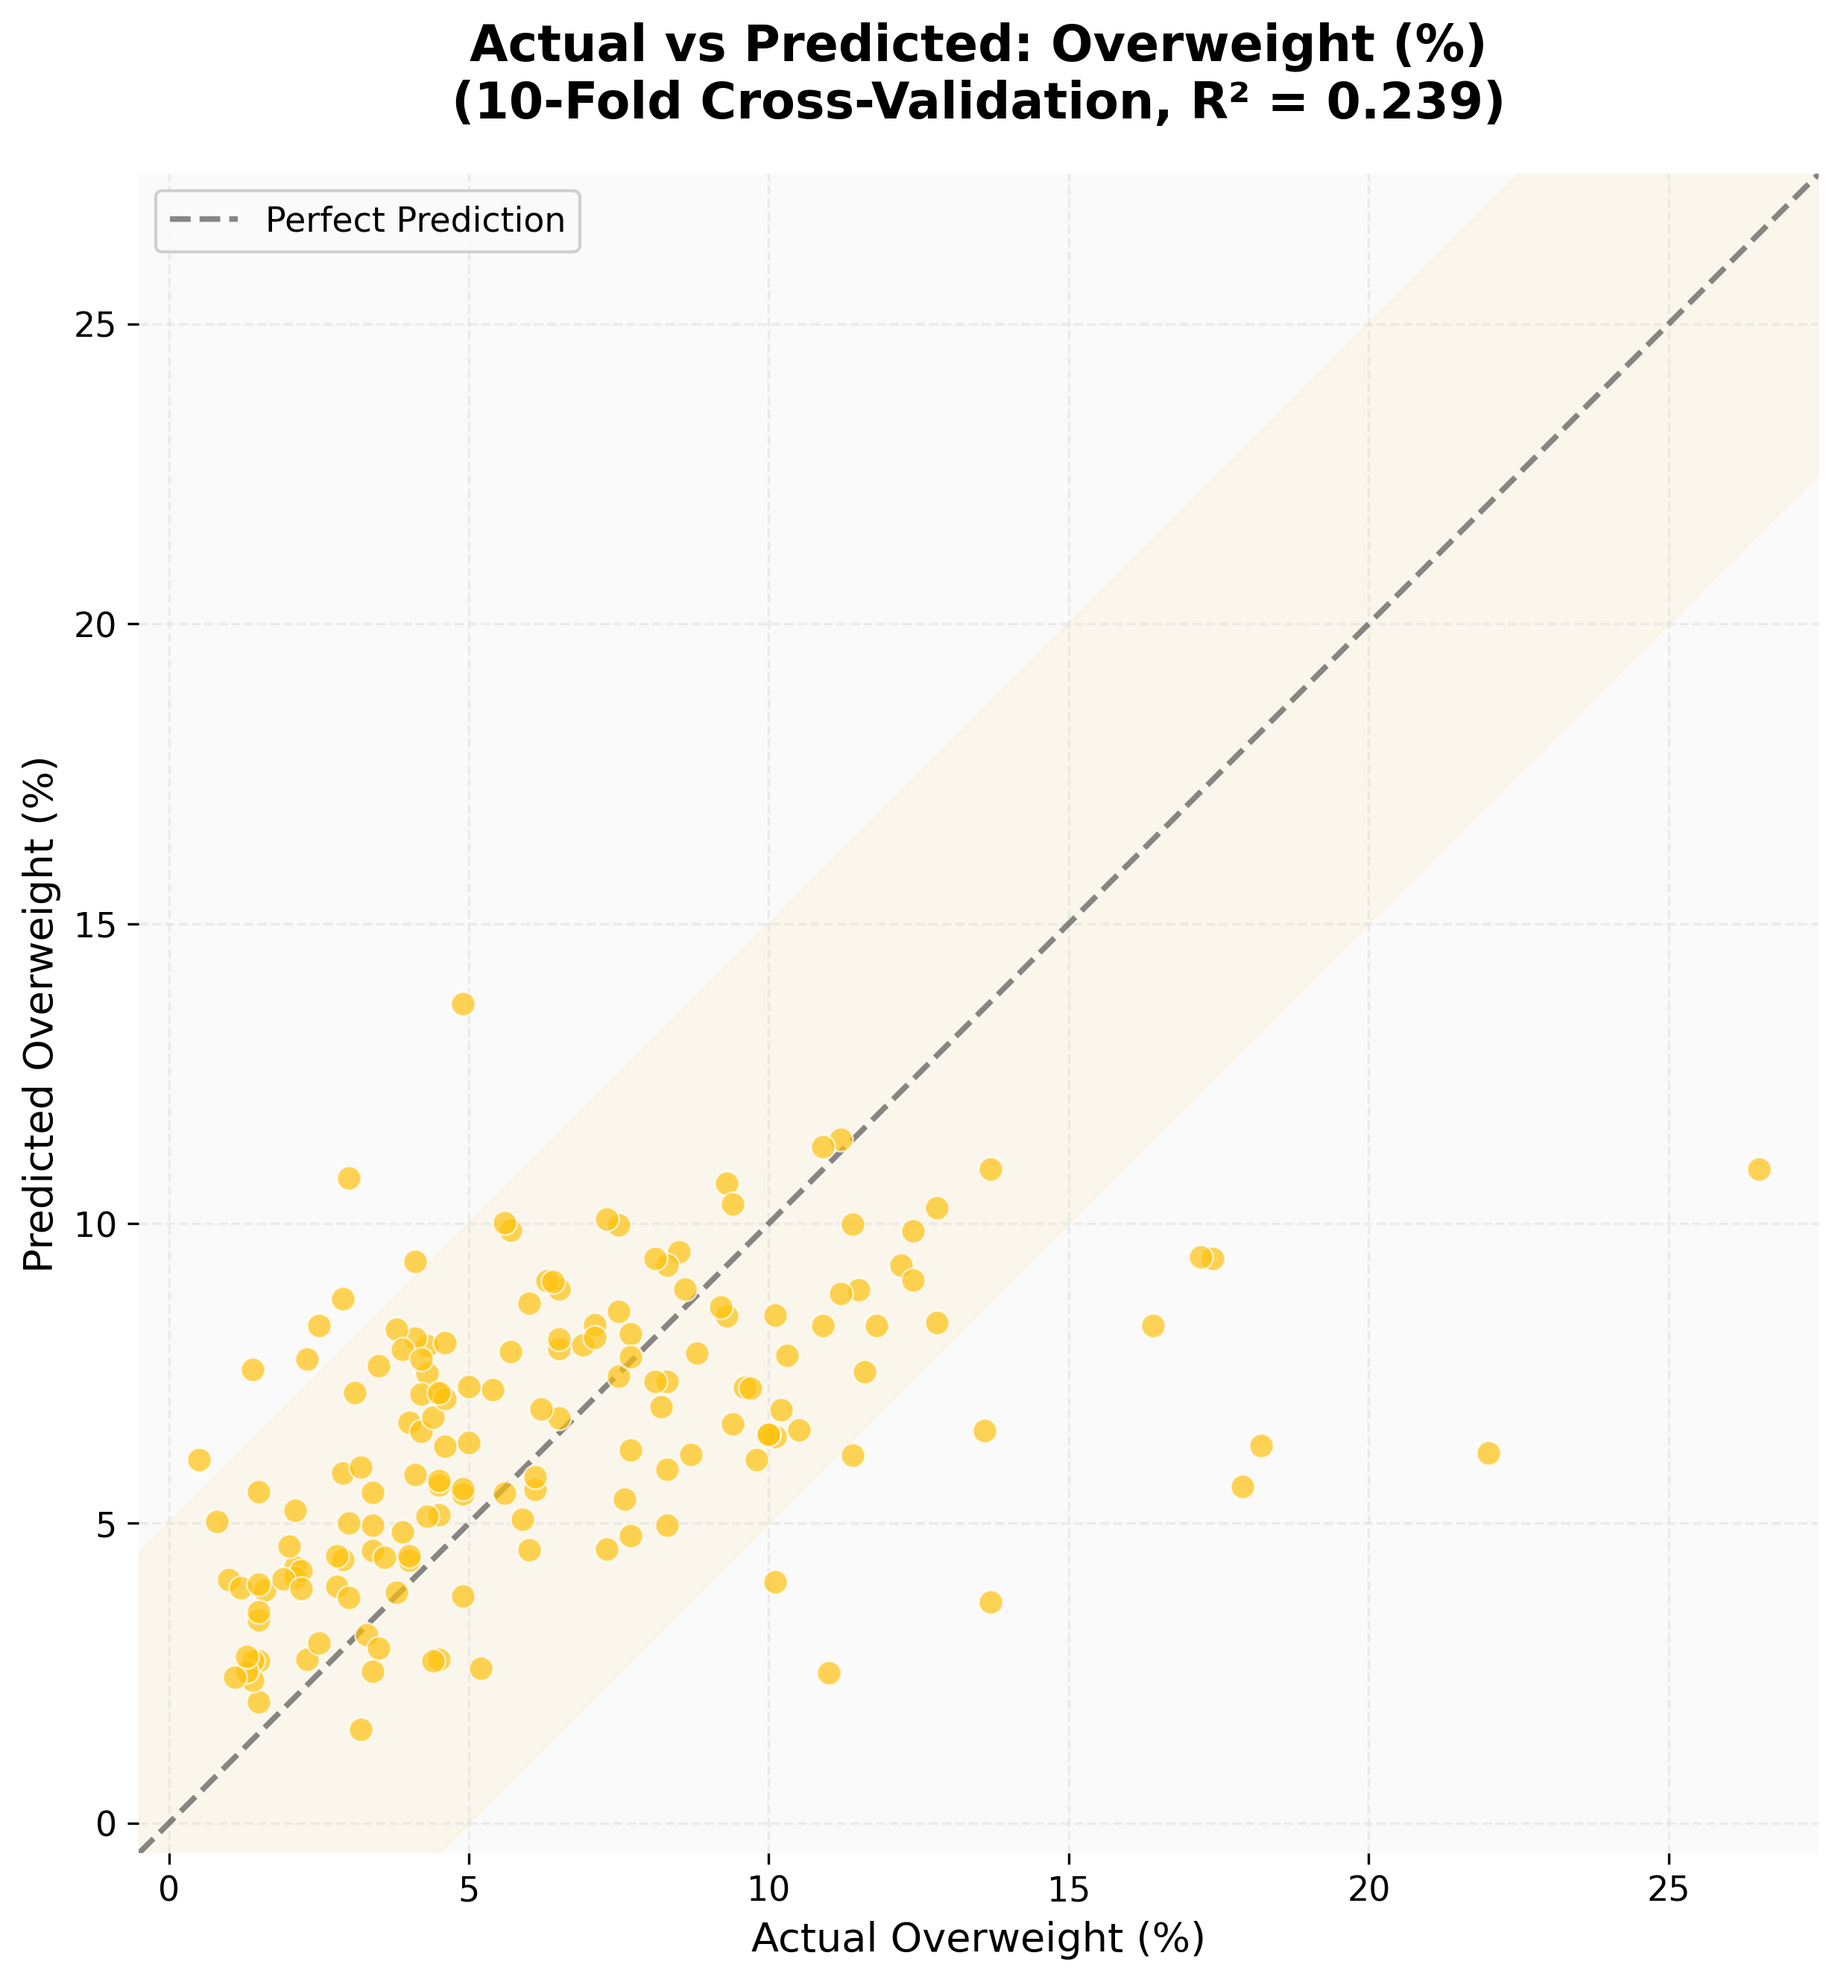
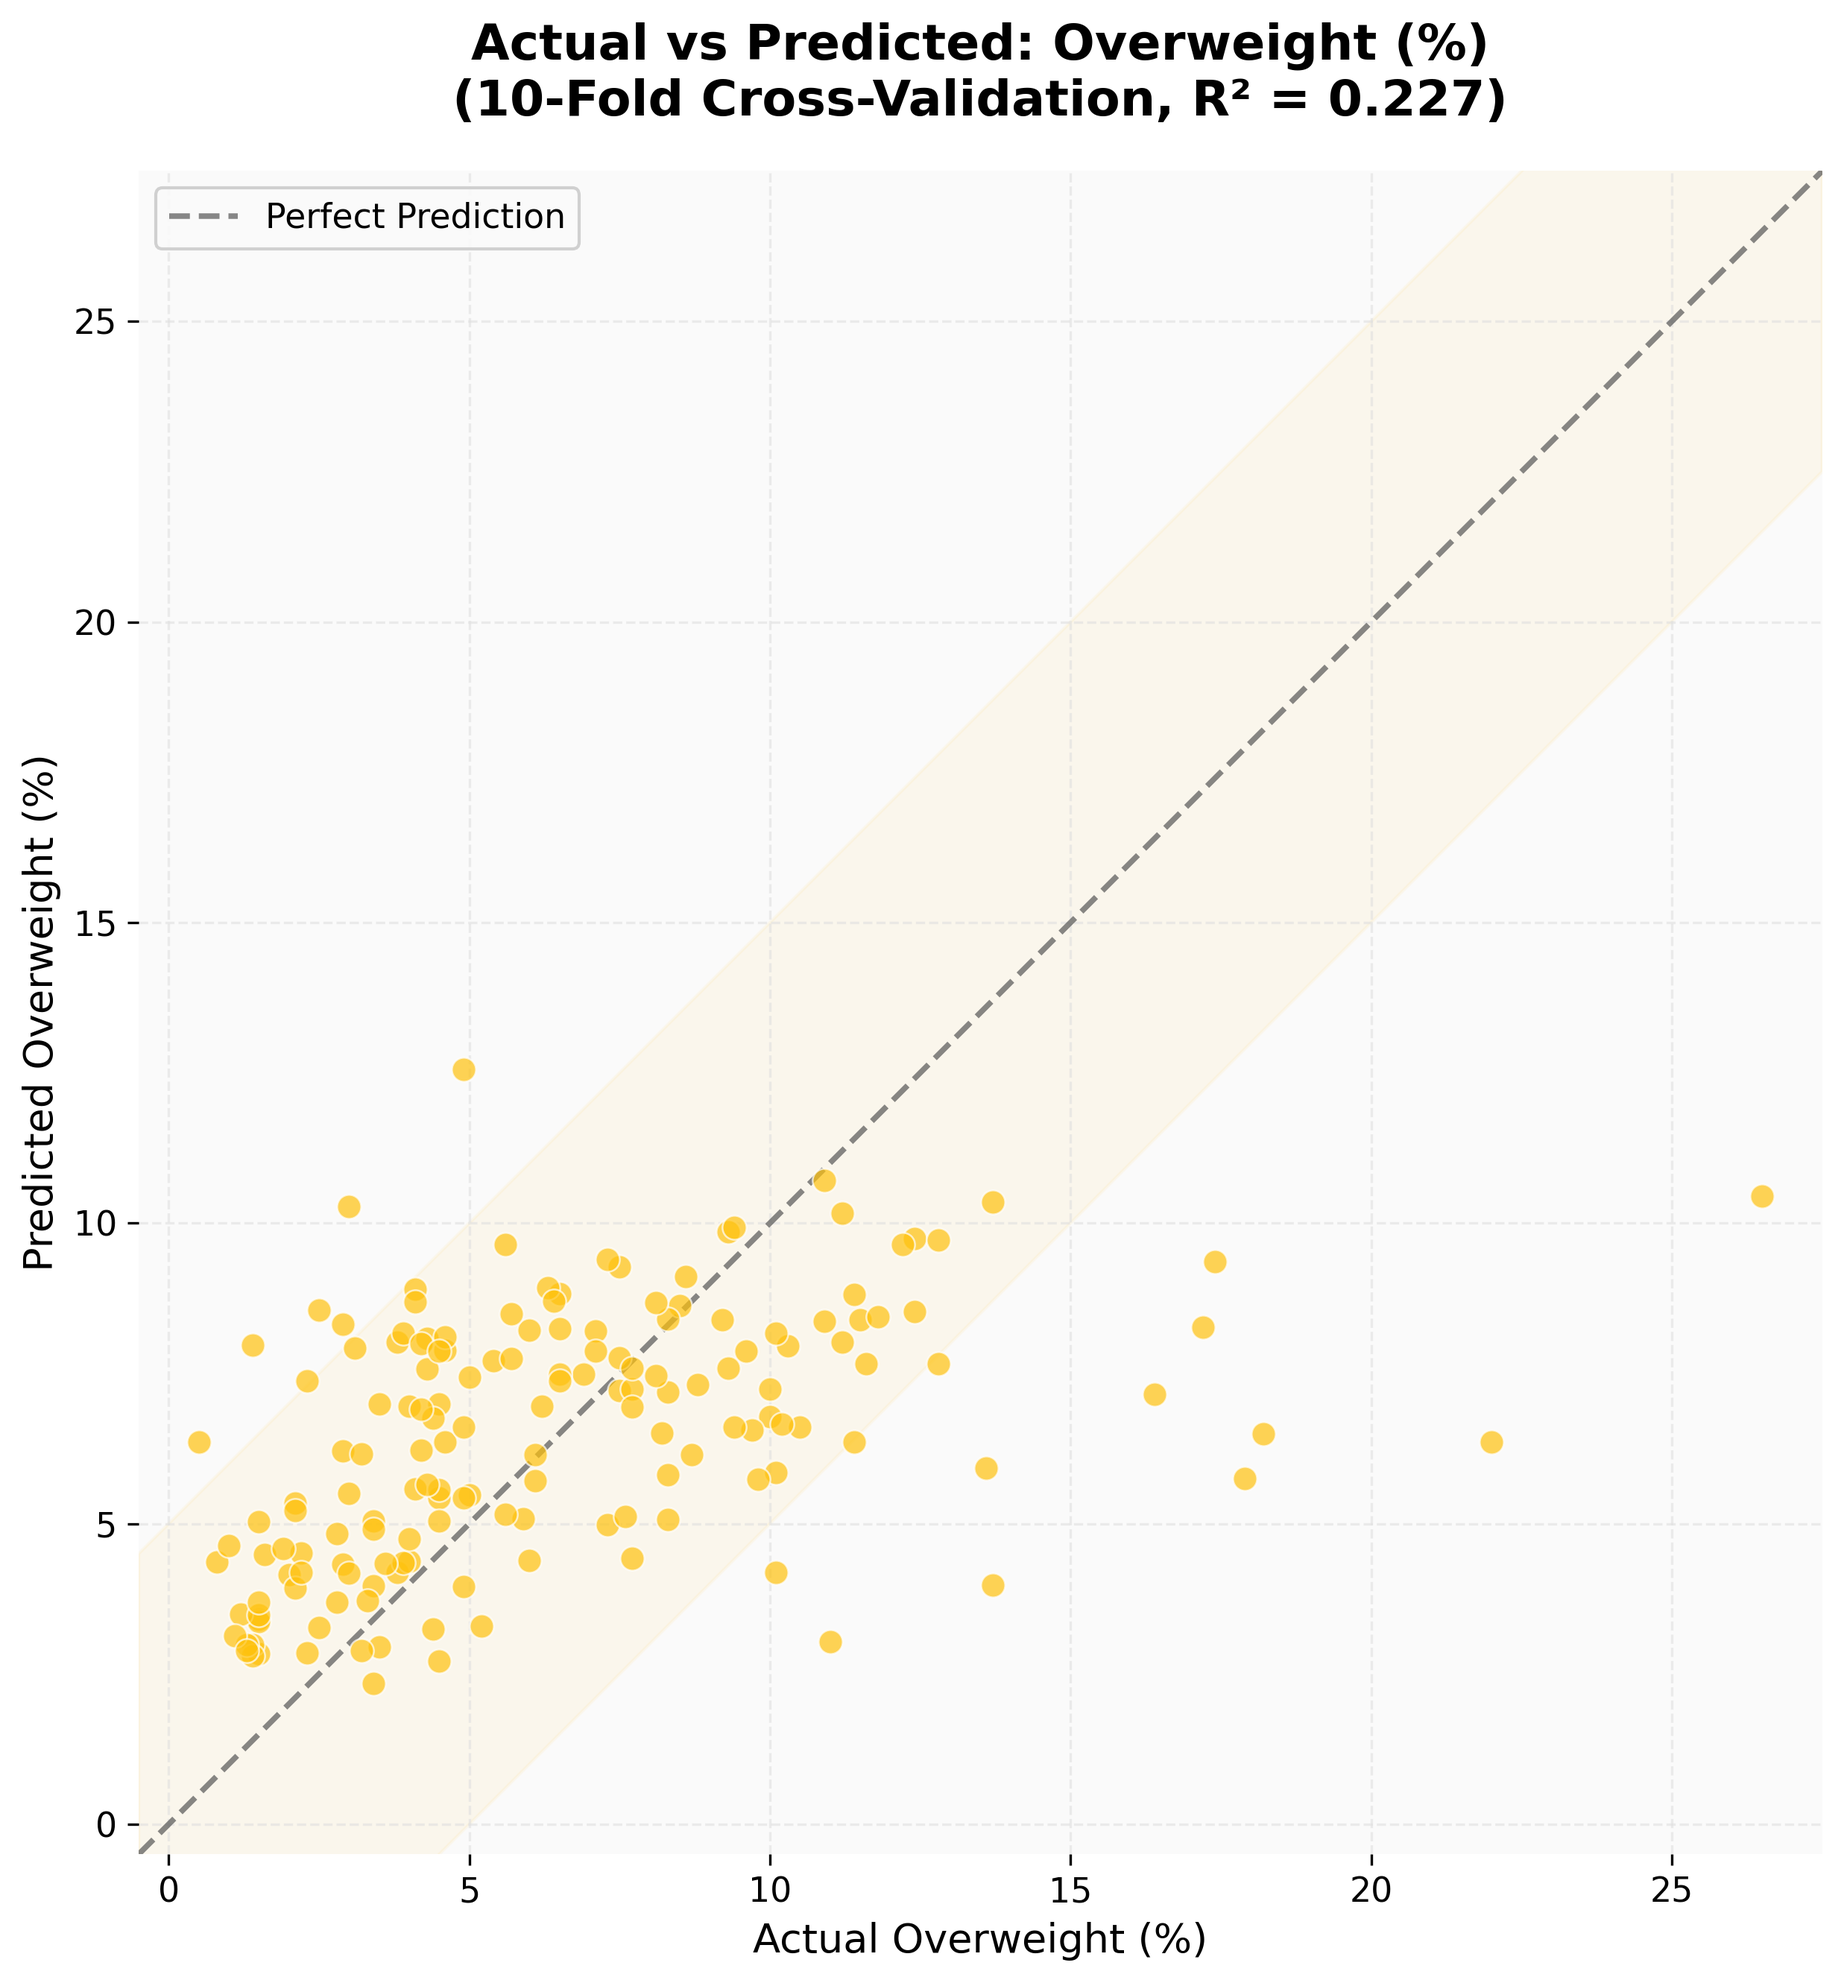
update xgboost model to use immunizaztion coverage

diff --git a/xgboost_cleaning.py b/xgboost_cleaning.py
@@ -6,7 +6,7 @@ import warnings
 warnings.filterwarnings("ignore")
 
 _SCRIPT_DIR = os.path.dirname(os.path.abspath(__file__))
-_ROOT_DIR   = os.path.dirname(_SCRIPT_DIR)
+_ROOT_DIR   = _SCRIPT_DIR
 
 # ====================================================================
 # FUNCTIONS COPIED FROM Malnutrition Datasets/Semi-Final.py
@@ -170,31 +170,40 @@ def get_iso(country_name):
 
 def extract_child_health_db():
     file_path = os.path.join(_ROOT_DIR, "data", "Child-Health-Coverage-Database-November-2025.xlsx")
-    
+
     # We want DIARCARE, PNEUCARE, ITN
     targets = {
         "DIARCARE": "diarrhoea_care_pct",
         "PNEUCARE": "pneumonia_care_pct",
         "ITN": "itn_use_pct"
     }
-    
+
     results = []
-    
+
     for sheet, new_col_name in targets.items():
         df = pd.read_excel(file_path, sheet_name=sheet, header=None)
         df = extract_target_columns(df)
-        
+
         if df.empty:
             continue
-            
+
         # In this specific DB, the 8th column (index 8) is the National Total value
         # The columns are usually: ISO, Country, Region, ProgRegion, Income, Year, Source, SourceLong, Total, Male, Female...
-        target_val_col = df.columns[8] 
-        
+        target_val_col = df.columns[8]
+
         df_clean = clean_data(df, target_val_col)
         df_clean = df_clean.rename(columns={target_val_col: new_col_name})
         results.append(df_clean)
-        
+
+    # Process new coverage data
+    coverage_file = os.path.join(_ROOT_DIR, "data", "coverage.xlsx")
+    if os.path.exists(coverage_file):
+        cov_raw = pd.read_excel(coverage_file)
+        if 'iso3' in cov_raw.columns and 2024 in cov_raw.columns:
+            cov = cov_raw[['iso3', 2024]].rename(columns={'iso3': 'ISO', 2024: 'bcg_coverage'})
+            cov['CountryName'] = cov['ISO'] # Just a placeholder so get_iso doesn't crash if it looks at it
+            results.append(cov)
+
     return results
 
 
@@ -258,23 +267,24 @@ def build_final_dataset():
     
     for new_df in all_new_dfs:
         # Add ISO code to the new data
-        new_df["ISO"] = new_df[COUNTRY_COL].apply(get_iso)
-        
+        if "ISO" not in new_df.columns or new_df["ISO"].isnull().all():
+            new_df["ISO"] = new_df[COUNTRY_COL].apply(get_iso)
+
         # Drop the country name column to avoid conflicts, keep only ISO and the new value
         new_col = [c for c in new_df.columns if c not in [COUNTRY_COL, "ISO"]][0]
         merge_df = new_df[["ISO", new_col]].dropna(subset=["ISO", new_col])
-        
+
         # Merge via left join to keep base dataset intact
         final_df = final_df.merge(merge_df, on="ISO", how="left")
         
 
     # 4. We also need to bring in WASH and Education directly into this final dataset
     # so xgboost_malnutrition.py doesn't have to do it.
-    wash_df = pd.read_csv(os.path.join(_ROOT_DIR, "outputs", "wash_clean_data.csv"))
+    wash_df = pd.read_csv(os.path.join(_ROOT_DIR, "WASH", "outputs", "wash_clean_data.csv"))
     if "iso3" in wash_df.columns:
         wash_df = wash_df.rename(columns={"iso3": "ISO"})
-    
-    edu_df = pd.read_csv(os.path.join(_ROOT_DIR, "outputs", "education_clean.csv"))
+
+    edu_df = pd.read_csv(os.path.join(_ROOT_DIR, "education_clean.csv"))
     
     wash_cols = ["wat_bas_nat", "san_bas_nat", "hyg_bas_nat"]
     edu_cols = ["completion_primary_f", "literacy_f"]

diff --git a/xgboost_analysis.py b/xgboost_analysis.py
@@ -43,7 +43,7 @@ plt.rcParams.update({
 # ──────────────────────────────────────────────────────────
 
 _SCRIPT_DIR = os.path.dirname(os.path.abspath(__file__))
-_ROOT_DIR   = os.path.dirname(_SCRIPT_DIR)
+_ROOT_DIR   = _SCRIPT_DIR
 
 OUTPUT_FOLDER = os.path.join(_ROOT_DIR, "outputs", "xgboost")
 os.makedirs(OUTPUT_FOLDER, exist_ok=True)
@@ -77,7 +77,8 @@ HEALTH_PREDICTORS = [
     "diarrhoea_care_pct",
     "pneumonia_care_pct",
     "exclusive_bf_pct",
-    "low_birthweight_pct"
+    "low_birthweight_pct",
+    "bcg_coverage"
 ]
 
 PREDICTOR_LABELS = {
@@ -95,6 +96,7 @@ PREDICTOR_LABELS = {
     "pneumonia_care_pct":      "Pneumonia Care Seeking (%)",
     "exclusive_bf_pct":        "Exclusive Breastfeeding (%)",
     "low_birthweight_pct":     "Low Birthweight (%)",
+    "bcg_coverage":            "BCG Coverage (%)",
     "income_group":            "Income Group"
 }
 
